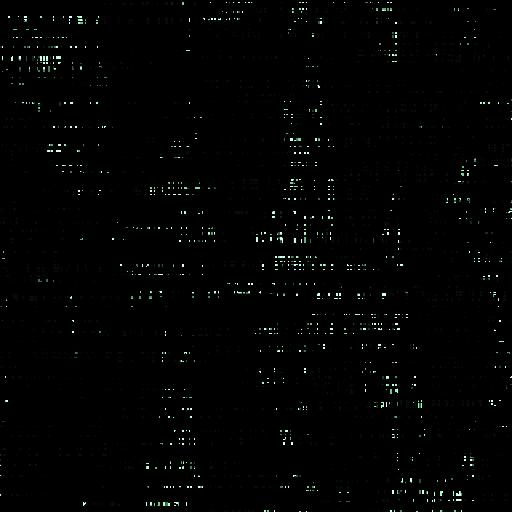
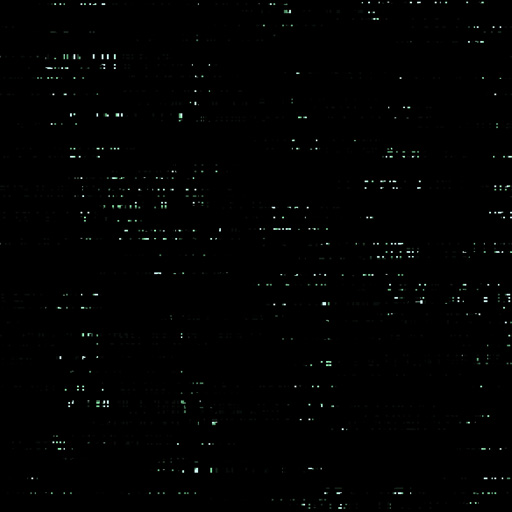
feat: kanji glyphs

diff --git a/src/game/map.js b/src/game/map.js
@@ -5,7 +5,8 @@ import { GetTextureRepeat } from './utils';
 import GameMapParser from './map-parser';
 import GamePlatform from './platform';
 import GameSkytube from './skytube';
-import GameSkybox from './skybox';
+import { StaticInstance as Skybox } from './skybox';
+import MapGlyph from './map-glyph';
 
 const MAP_OFFSET_Y = -10;
 
@@ -15,14 +16,14 @@ export default class GameMap {
     this.mapParser = new GameMapParser('#game_map');
     this.platforms = [];
     this.bodies = [];
-    this.generatePlatformBodies();
-    this.addSkybox();
+    this.glyphs = [];
+    this.generatePlatform();
     this.addCylinder();
     this.addSkytube();
     this.addFloor();
   }
 
-  generatePlatformBodies() {
+  generatePlatform() {
     const { mapParser: map } = this;
     for (let y = 0; y < map.height; y++) {
       let platformWidth = 0;
@@ -32,19 +33,15 @@ export default class GameMap {
         const currTile = map.getTileAt(x, y);
         if (currTile === MAP.Empty) {
           platformWidth = 0;
+        } else if (currTile === MAP.Glyph) {
+          this.addGlyph(x, y);
         } else {
           if (currTile === MAP.StaticPlatform ||
             currTile === MAP.MovingPlatform) {
             platformWidth += 1;
           }
-
           if (nextTile !== currTile && platformWidth > 0) {
-            this.addPlaform(
-              x - platformWidth / 2 - map.width / 2 + 1,
-              map.height - y + MAP_OFFSET_Y,
-              platformWidth,
-              currTile,
-            );
+            this.addPlaform(x, y, platformWidth, currTile);
             platformWidth = 0;
           }
         }
@@ -52,13 +49,17 @@ export default class GameMap {
     }
   }
 
+  addGlyph(x, y) {
+    const { mapParser: map } = this;
+    const xTrans = x - map.width / 2;
+    const yTrans = map.height - y + MAP_OFFSET_Y;
+    const glyph = new MapGlyph(xTrans, yTrans);
+    this.group.add(glyph.group);
+  }
+
   addSkytube() {
     this.skytube = new GameSkytube();
     this.group.add(this.skytube.group);
-  }
-
-  addSkybox() {
-    this.skybox = new GameSkybox();
   }
 
   addFloor() {
@@ -67,7 +68,7 @@ export default class GameMap {
     const texRough = GetTextureRepeat(IMAGE_ASSETS.ImpFloorRoughness, 40, 40);
     const geo = new THREE.CircleGeometry(80, 30);
     const mat = new THREE.MeshStandardMaterial({
-      envMap: this.skybox.textureCube,
+      envMap: Skybox.textureCube,
       envMapIntensity: 0.1,
       map: texBase,
       normalMap: texNormal,
@@ -85,18 +86,20 @@ export default class GameMap {
 
   addCylinder() {
     const height = 550;
-    const texBase = GetTextureRepeat(IMAGE_ASSETS.HullBase, 5, 10);
-    const texEmissive = GetTextureRepeat(IMAGE_ASSETS.HullEmissive, 5, 10);
-    const texNormal = GetTextureRepeat(IMAGE_ASSETS.HullNormal, 5, 10);
+    const ratio = height / (GAME.CilynderRadius * Math.PI * 2);
+    const xScale = 7;
+    const yScale = 7 * ratio;
+    const texBase = GetTextureRepeat(IMAGE_ASSETS.HullBase, xScale, yScale);
+    const texEmissive = GetTextureRepeat(IMAGE_ASSETS.HullEmissive, xScale, yScale);
+    const texNormal = GetTextureRepeat(IMAGE_ASSETS.HullNormal, xScale, yScale);
     const geo = new THREE.CylinderGeometry(GAME.CilynderRadius, GAME.CilynderRadius,
       height, 64, 1, true);
     const mat = new THREE.MeshStandardMaterial({
       color: 0x2C3D55,
-      envMap: this.skybox.textureCube,
+      envMap: Skybox.textureCube,
       map: texBase,
       emissiveMap: texEmissive,
       normalMap: texNormal,
-      normalScale: new THREE.Vector2(0.3, 0.3),
       emissiveIntensity: 0.7,
       emissive: 0x00ffff,
       wireframe: false,
@@ -111,8 +114,10 @@ export default class GameMap {
   }
 
   addPlaform(x, y, width, type) {
-    const { bodies, group, platforms } = this;
-    const platform = new GamePlatform({ x, y, width, type });
+    const { bodies, group, platforms, mapParser: map } = this;
+    const xTrans = x - width / 2 - map.width / 2 + 1;
+    const yTrans = map.height - y + MAP_OFFSET_Y;
+    const platform = new GamePlatform({ x: xTrans, y: yTrans, width, type });
     bodies.push(platform.body);
     group.add(platform.mesh);
     group.add(platform.holderSocketMesh);
@@ -120,12 +125,14 @@ export default class GameMap {
   }
 
   update(delta, player) {
-    const { platforms } = this;
+    const { platforms, glyphs } = this;
     this.skytube.update(delta);
     this.skytube.group.position.y = player.mesh.position.y;
     for (let i = 0; i < platforms.length; i++) {
-      const platform = platforms[i];
-      platform.update(delta);
+      platforms[i].update(delta);
+    }
+    for (let i = 0; i < glyphs.length; i++) {
+      glyphs[i].update(delta);
     }
   }
 }

diff --git a/src/game/map-glyph.js b/src/game/map-glyph.js
@@ -1,0 +1,126 @@
+import { GAME } from './const';
+import { IMAGE_ASSETS } from './assets';
+import { StaticInstance as Skybox } from './skybox';
+import { TranslateTo3d, GetTextureRepeat } from './utils';
+
+const RepeatX = 1 / 9;
+const RepeatY = 1 / 9;
+
+const Colors = [
+  0xff4f4f,
+  0xf32fff,
+  0x2fe9ff,
+  0xff8c2f,
+  0xfdff2f,
+];
+
+const Offsets = [
+  { x: 0.17, y: 0.83 },
+  { x: 0.5, y: 0.83 },
+  { x: 0.85, y: 0.85 },
+  { x: 0.17, y: 0.5 },
+  { x: 0.5, y: 0.5 },
+  { x: 0.84, y: 0.49 },
+  { x: 0.17, y: 0.17 },
+  { x: 0.5, y: 0.16 },
+  { x: 0.83, y: 0.17 },
+];
+
+let idxCount = 0;
+
+export default class MapGlyph {
+  constructor(x, y) {
+    this.group = new THREE.Object3D();
+    const offsets = Offsets[idxCount++ % Offsets.length];
+    const color = Colors[~~(Math.random() * Colors.length)];
+    this.addInnerMesh(x, y, offsets, color);
+    this.addOutterMesh(x, y, offsets);
+  }
+
+  addInnerMesh(x, y, offsets, color) {
+    const texBase = GetTextureRepeat(IMAGE_ASSETS.HullBase, RepeatX, RepeatY);
+    texBase.offset.set(offsets.x, offsets.y);
+    const texEmissive = this.getTexture(IMAGE_ASSETS.GlyphsEmissive, offsets);
+    const geo = this.getInnerGeometry();
+    const mat = new THREE.MeshStandardMaterial({
+      envMap: Skybox.textureCube,
+      map: texBase,
+      color: 0x090c11,
+      emissiveMap: texEmissive,
+      emissiveIntensity: 6,
+      emissive: color,
+      roughness: 0.25,
+      metalness: 0.5,
+      side: THREE.DoubleSide,
+    });
+    const mesh = new THREE.Mesh(geo, mat);
+    TranslateTo3d(mesh.position, x, y, GAME.PlatformDistance - 2.2);
+    this.setInverseLookAt(mesh, y);
+    this.group.add(mesh);
+  }
+
+  addOutterMesh(x, y) {
+    const geo = this.getOutterGeometry();
+    const mat = new THREE.MeshLambertMaterial({
+      envMap: Skybox.textureCube,
+      color: 0x05070a,
+      reflectivity: 0.35,
+    });
+    const mesh = new THREE.Mesh(geo, mat);
+    mesh.castShadow = true;
+    TranslateTo3d(mesh.position, x, y, GAME.PlatformDistance - 2.2);
+    this.setInverseLookAt(mesh, y);
+    this.group.add(mesh);
+  }
+
+  setInverseLookAt(target, y) {
+    const lookPosition = new THREE.Vector3(0, y, 0);
+    lookPosition.subVectors(target.position, lookPosition).add(target.position);
+    target.lookAt(lookPosition);
+  }
+
+  getTexture(url, offsets) {
+    const tex = new THREE.TextureLoader().load(url);
+    tex.repeat.set(RepeatX, RepeatY);
+    tex.offset.set(offsets.x, offsets.y);
+    return tex;
+  }
+
+  setHexVertices(target, cellSize) {
+    const verts = [];
+    for (let i = 0; i < 6; i++) {
+      const angle = (Math.PI * 2 / 6) * i;
+      verts.push(new THREE.Vector2(
+        cellSize * Math.cos(angle),
+        cellSize * Math.sin(angle),
+      ));
+    }
+    target.moveTo(verts[0].x, verts[0].y);
+    for (let i = 0; i < 6; i++) {
+      target.lineTo(verts[i].x, verts[i].y);
+    }
+    target.autoClose = true;
+  }
+
+  getOutterGeometry() {
+    const shape = new THREE.Shape();
+    this.setHexVertices(shape, 2.6);
+    const pathHole = new THREE.Path();
+    this.setHexVertices(pathHole, 2);
+    shape.holes.push(pathHole);
+    const extrudeSettings = {
+      amount: 0.3,
+      bevelEnabled: false,
+    };
+    return new THREE.ExtrudeBufferGeometry(shape, extrudeSettings);
+  }
+
+  getInnerGeometry() {
+    const shape = new THREE.Shape();
+    this.setHexVertices(shape, 2);
+    return new THREE.ShapeGeometry(shape);
+  }
+
+  update(delta) {
+  }
+}

diff --git a/src/game/assets.js b/src/game/assets.js
@@ -6,7 +6,6 @@ export const IMAGE_ASSETS = {
   HullNormal:         `${PREFIX}/macro_hull_normal.jpg`,
   HullBase:           `${PREFIX}/macro_hull_basecolor.jpg`,
   HullRoughness:      `${PREFIX}/macro_hull_roughness.jpg`,
-  HullHeight:         `${PREFIX}/macro_hull_height.jpg`,
   UniverseAmbient:    `${PREFIX}/universe.jpg`,
   SkyboxPX:           `${PREFIX}/universe_cube_0_cubef_cubert.jpg`,
   SkyboxNX:           `${PREFIX}/universe_cube_0_cubef_cubert.jpg`,
@@ -17,9 +16,10 @@ export const IMAGE_ASSETS = {
   ImpFloorBase:       `${PREFIX}/ImperialHangarFloor_basecolor.jpg`,
   ImpFloorNormal:     `${PREFIX}/ImperialHangarFloor_normal.jpg`,
   ImpFloorRoughness:  `${PREFIX}/ImperialHangarFloor_roughness.jpg`,
-  RouberNormal:       `${PREFIX}/rubber_normal.jpg`,
-  RouberRoughness:    `${PREFIX}/rubber_roughness.jpg`,
-  BlackBase:          `${PREFIX}/black_base_color.jpg`,
+  GlyphsBase:         `${PREFIX}/glyphs_base.jpg`,
+  GlyphsDisplacement: `${PREFIX}/glyphs_displacement.jpg`,
+  GlyphsNormal:       `${PREFIX}/glyphs_normal.jpg`,
+  GlyphsEmissive:     `${PREFIX}/glyphs_emissive.jpg`,
 };
 
 export const AUDIO_ASSETS = {};

diff --git a/src/game/platform.js b/src/game/platform.js
@@ -3,7 +3,7 @@ import { PHYSICS, MAP, EVENTS, GAME } from './const';
 import { IMAGE_ASSETS } from './assets';
 import { TranslateTo3d, GetTextureRepeat } from './utils';
 import GamePhysicsBody from './physics-body';
-import GameSkybox from './skybox';
+import { StaticInstance as Skybox } from './skybox';
 
 const DEFAULT = {
   x: 0,
@@ -11,8 +11,6 @@ const DEFAULT = {
   width: 1,
   type: MAP.StaticPlatform,
 };
-
-const SKYBOX = new GameSkybox();
 
 export const LightMatStatic = new THREE.MeshLambertMaterial({
   color: 0xff00ff,
@@ -27,7 +25,7 @@ export const LightMatMoving = new THREE.MeshLambertMaterial({
 });
 
 export const GenericMat = new THREE.MeshStandardMaterial({
-  envMap: SKYBOX.textureCube,
+  envMap: Skybox.textureCube,
   envMapIntensity: 0.2,
   metalness: 0.5,
   roughness: 0.7,

diff --git a/src/game/player.js b/src/game/player.js
@@ -10,7 +10,7 @@ import GamePhysicsBody from './physics-body';
 import LineTrail from './line-trail';
 
 const DEFAULT = {
-  jumpTolerance: 10,
+  jumpTolerance: 50,
   jumpForce: 1.5,
   walkForce: 0.16,
   gravity: -0.1,
@@ -113,7 +113,6 @@ export default class GamePlayer {
       if (this.jumpLocked === true) return 0;
       this.jumpDefer = 0;
       if (this.grounded) {
-        this.jumpsLeft = opts.maxJumps;
         this.canDoubleJump = true;
         this.jumpLocked = true;
         force = opts.jumpForce;

diff --git a/src/game/map-parser.js b/src/game/map-parser.js
@@ -4,6 +4,7 @@ const MAP_PARSE_COLORS = {
   '0,0,0': MAP.Empty,
   '255,0,0': MAP.StaticPlatform,
   '0,0,255': MAP.MovingPlatform,
+  '0,255,0': MAP.Glyph,
 };
 
 export default class GameMapParser {

diff --git a/src/game/skybox.js b/src/game/skybox.js
@@ -26,3 +26,5 @@ export default class GameSkybox {
     this.mesh.position.y = 550 * 0.4;
   }
 }
+
+export const StaticInstance = new GameSkybox();

diff --git a/src/game/const.js b/src/game/const.js
@@ -49,4 +49,5 @@ export const MAP = {
   Empty: 0,
   StaticPlatform: 1,
   MovingPlatform: 2,
+  Glyph: 3,
 };
